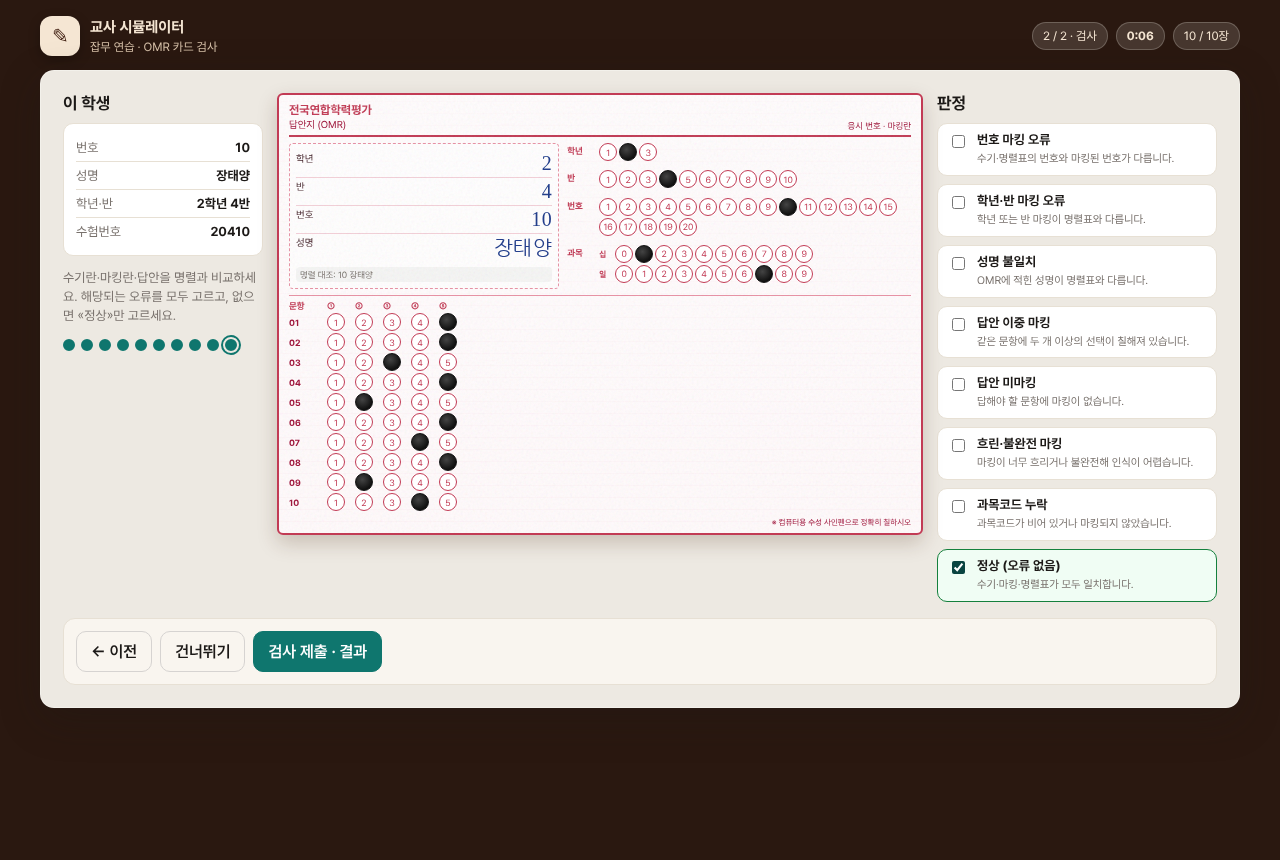
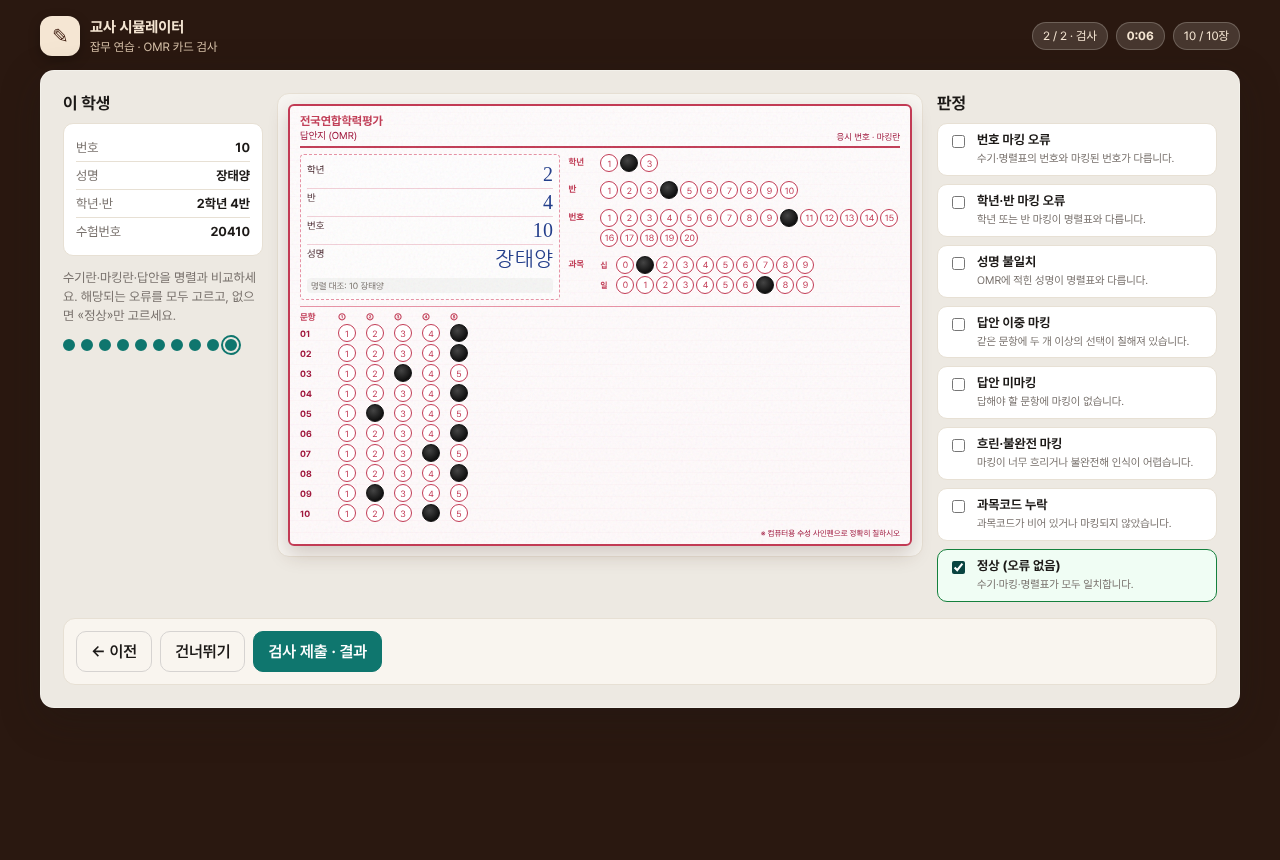
polish(omr): 모바일 터치 타깃·흐린마킹·검사 카드 여백
작은 화면 버튼 44px, faint 마킹 점선 강조, 결과에 시드 안내.

Changed region(s): [[0.2188, 0.1209, 0.7188, 0.6349]]

diff --git a/src/style.css b/src/style.css
@@ -540,3 +540,41 @@ h2 { margin: 0 0 10px; font-size: 1.05rem; }
 
 .grade-msg { color: var(--muted); margin: 4px 0 0; }
 .score-hero .eyebrow { letter-spacing: 0.06em; }
+
+
+/* touch / mobile polish */
+@media (max-width: 960px) {
+  .btn.tiny { min-width: 44px; min-height: 40px; font-size: 14px; }
+  .sort-tools { gap: 8px; }
+  .num-badge { min-width: 44px; height: 44px; font-size: 16px; }
+  .sticky-actions .btn { flex: 1 1 auto; min-height: 44px; }
+  .check { padding: 12px; }
+  .check-body strong { font-size: 14px; }
+}
+
+/* clearer faint marks */
+.bub.filled.faint {
+  background:
+    radial-gradient(circle at 40% 35%, rgba(40,40,40,0.45), rgba(20,20,20,0.2));
+  border: 1.5px dashed #555;
+}
+
+/* inspection card breathing room */
+.inspect-card-pane {
+  background: rgba(255,255,255,0.55);
+  border-radius: 12px;
+  padding: 10px;
+  border: 1px solid var(--paper-line);
+}
+
+/* title stack more OMR-like */
+.preview-card.c1, .preview-card.c3 {
+  background:
+    linear-gradient(180deg, #fff, #fff7f9),
+    repeating-linear-gradient(0deg, transparent 0 9px, rgba(194,59,85,0.15) 10px);
+}
+.preview-card.c1::after, .preview-card.c3::after {
+  content: "OMR";
+  position: absolute; top: 12px; left: 12px;
+  color: #c23b55; font-weight: 800; font-size: 14px;
+}

diff --git a/src/main.ts b/src/main.ts
@@ -589,6 +589,7 @@ function renderResults() {
     <h1><span class="score-num">${s.total}</span> <small>/ ${s.maxTotal}점</small></h1>
     <p class="lead">소요 ${fmtTime(s.timeSeconds)} · 시간 보너스 +${s.timeBonus}</p>
     <p class="grade-msg">${gradeMsg}</p>
+    <p class="side-note" style="text-align:center">시드 ${data.config.seed} · ?seed= 로 같은 문제 공유</p>
   </div>
   <div class="result-grid">
     <div class="result-box">
